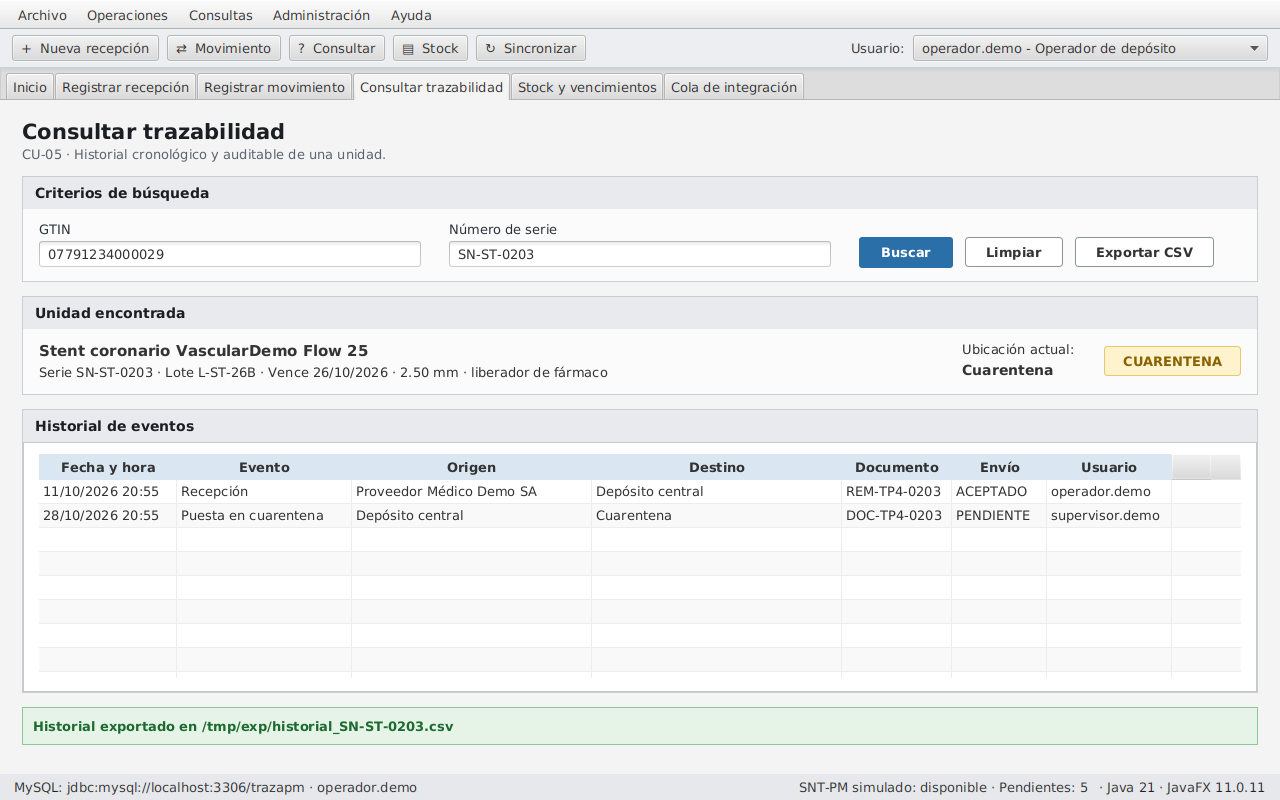
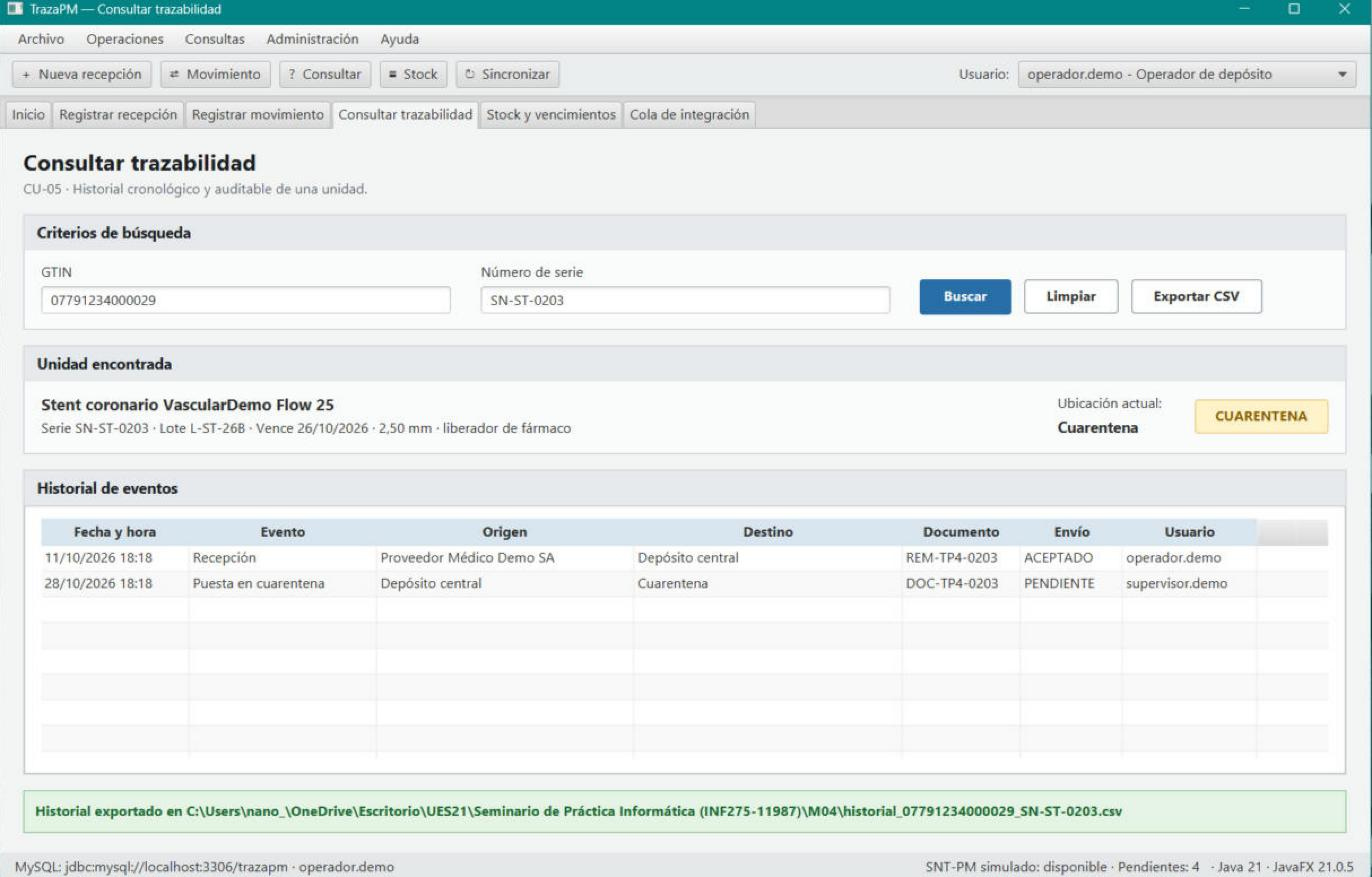
: GTIN como texto en el CSV y capturas en el entorno real

diff --git a/src/main/java/com/trazapm/control/exportacion/ExportadorCsv.java b/src/main/java/com/trazapm/control/exportacion/ExportadorCsv.java
@@ -37,7 +37,7 @@ public class ExportadorCsv implements Exportador {
         // try-with-resources: el archivo se cierra aunque ocurra un error al escribir.
         try (BufferedWriter w = abrir(destino)) {
             linea(w, "TrazaPM - Historial de trazabilidad", "Generado " + FECHA_HORA.format(LocalDateTime.now()));
-            linea(w, "GTIN", u.getProducto().getGtin());
+            linea(w, "GTIN", comoTexto(u.getProducto().getGtin()));
             linea(w, "Serie", u.getNumeroSerie());
             linea(w, "Producto", u.getProducto().getDescripcion());
             linea(w, "Estado actual", u.getEstado().getEtiqueta());
@@ -79,7 +79,7 @@ public class ExportadorCsv implements Exportador {
             w.newLine();
             linea(w, "GTIN", "Familia", "Marca y modelo", "Serie", "Lote", "Vencimiento", "Estado", "Ubicación");
             for (UnidadProducto u : unidades) {
-                linea(w, u.getProducto().getGtin(), u.getProducto().getTipoProducto(),
+                linea(w, comoTexto(u.getProducto().getGtin()), u.getProducto().getTipoProducto(),
                         u.getProducto().getMarca() + " " + u.getProducto().getModelo(), u.getNumeroSerie(),
                         u.getLote(), u.getVencimiento() == null ? "" : FECHA.format(u.getVencimiento()),
                         u.getEstado().getEtiqueta(),
@@ -106,6 +106,15 @@ public class ExportadorCsv implements Exportador {
             w.write(escapar(campos[i]));
         }
         w.newLine();
+    }
+
+    /**
+     * Fuerza a Excel a tratar el valor como texto (fórmula ="..."). Sin esto,
+     * un GTIN como 07791234000029 se convierte en número, pierde el cero inicial
+     * y se muestra en notación científica.
+     */
+    static String comoTexto(String valor) {
+        return valor == null ? "" : "=\"" + valor + "\"";
     }
 
     /** Encierra entre comillas los valores que contienen el separador, comillas o saltos de línea. */
